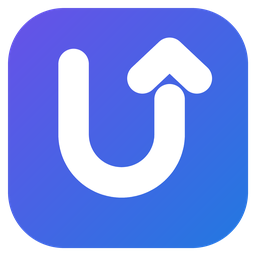
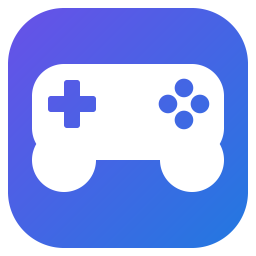
插件图标改为游戏手柄：SVG 源、16/32/128/256 PNG 与 WPF BrandMark 同一几何
靛蓝→蓝渐变圆角方块上的白色手柄（两侧握把、左十字键、右四个功能键镂空），16 px 网格像素对齐，
16 px 时功能键为整像素方块。新增 scripts/render_brand_icons.py（Pillow 超采样）统一生成 SVG 和全部 PNG；
VSIX Icon / PreviewImage、VSCT bmpLogo（工具栏按钮、设置…菜单）、设置窗口等标题栏的引用路径不变。

Claude-Session: https://claude.ai/code/session_01DYSWJkvDiLWddLiPe3DpUj

Changed region(s): [[0.125, 0.125, 0.875, 0.7812]]

diff --git a/scripts/render_brand_icons.py b/scripts/render_brand_icons.py
@@ -1,0 +1,125 @@
+#!/usr/bin/env python3
+"""Renders the UEToVS brand mark (game controller on the indigo-to-blue tile).
+
+Writes src/UEToVS.Host/Resources/UEToVS.svg (source) and the PNGs used by the VSIX / VSCT:
+UEToVS16.png, UEToVS32.png, Icon.png (128), PreviewImage.png (256). Only needs Pillow (supersampled rendering);
+the geometry below is the single source of truth and is mirrored in src/UEToVS.UI/Atoms/BrandMark.cs.
+
+Geometry (16-unit grid, pixel-aligned so the 16 px icon is crisp):
+  tile    rounded square 0.5..15.5, radius 3.5, gradient #6B4FE8 -> #1F7AE0 (top-left -> bottom-right)
+  body    rounded rect x 2..14, y 4..10, radius 2, plus two grips x 2..6 / 10..14, y 8..12, radius 2 (white)
+  d-pad   cut-out plus: x 3..6 * y 6..7 and x 4..5 * y 5..8
+  buttons four cut-out face buttons around (11.5, 6.5): squares at 16 px, round dots from 32 px up
+
+Usage: python3 scripts/render_brand_icons.py
+"""
+import os
+import sys
+
+from PIL import Image, ImageDraw
+
+ROOT = os.path.dirname(os.path.dirname(os.path.abspath(__file__)))
+OUT = os.path.join(ROOT, "src", "UEToVS.Host", "Resources")
+
+TILE = (0.5, 0.5, 15.5, 15.5)
+TILE_R = 3.5
+C0 = (0x6B, 0x4F, 0xE8)
+C1 = (0x1F, 0x7A, 0xE0)
+BODY = [((2, 4, 14, 10), 2.0), ((2, 8, 6, 12), 2.0), ((10, 8, 14, 12), 2.0)]
+DPAD = [(3, 6, 6, 7), (4, 5, 5, 8)]
+BUTTON_CENTERS = [(11.5, 5.5), (10.5, 6.5), (12.5, 6.5), (11.5, 7.5)]
+BUTTON_R = 0.58
+
+SS = 16  # supersampling factor per output pixel
+
+
+def gradient(size):
+    """Diagonal gradient C0 (top-left) -> C1 (bottom-right)."""
+    if size > 512:
+        return gradient(512).resize((size, size), Image.BILINEAR)
+    img = Image.new("RGB", (size, size))
+    px = img.load()
+    for y in range(size):
+        for x in range(size):
+            t = (x + y) / (2.0 * (size - 1)) if size > 1 else 0
+            px[x, y] = tuple(round(C0[i] + (C1[i] - C0[i]) * t) for i in range(3))
+    return img
+
+
+def render(size, square_buttons):
+    big = size * SS
+    k = big / 16.0
+
+    def box(r):
+        return [r[0] * k, r[1] * k, r[2] * k - 1, r[3] * k - 1]
+
+    tile_mask = Image.new("L", (big, big), 0)
+    ImageDraw.Draw(tile_mask).rounded_rectangle(box(TILE), radius=TILE_R * k, fill=255)
+
+    glyph = Image.new("L", (big, big), 0)
+    g = ImageDraw.Draw(glyph)
+    for rect, radius in BODY:
+        g.rounded_rectangle(box(rect), radius=radius * k, fill=255)
+    for rect in DPAD:
+        g.rounded_rectangle(box(rect), radius=0 if square_buttons else 0.18 * k, fill=0)
+    for cx, cy in BUTTON_CENTERS:
+        if square_buttons:
+            g.rectangle(box((cx - 0.5, cy - 0.5, cx + 0.5, cy + 0.5)), fill=0)
+        else:
+            g.ellipse([(cx - BUTTON_R) * k, (cy - BUTTON_R) * k, (cx + BUTTON_R) * k - 1, (cy + BUTTON_R) * k - 1], fill=0)
+
+    tile = Image.new("RGBA", (big, big), (0, 0, 0, 0))
+    tile.paste(gradient(big), (0, 0), tile_mask)
+    white = Image.new("RGBA", (big, big), (255, 255, 255, 255))
+    tile.paste(white, (0, 0), glyph)
+    # keep the tile's own alpha (the glyph never leaves the tile)
+    r, gch, b, _ = tile.split()
+    tile = Image.merge("RGBA", (r, gch, b, tile_mask))
+    return tile.resize((size, size), Image.BOX)  # area average: exact for the pixel-aligned shapes
+
+
+def svg():
+    def rr(rect, radius, fill):
+        x0, y0, x1, y1 = rect
+        return f'    <rect x="{x0}" y="{y0}" width="{x1 - x0}" height="{y1 - y0}" rx="{radius}" fill="{fill}"/>'
+
+    body = "\n".join(rr(r, rad, "#FFFFFF") for r, rad in BODY)
+    holes = "\n".join(rr(r, 0.18, "#000000") for r in DPAD)
+    dots = "\n".join(f'    <circle cx="{cx}" cy="{cy}" r="{BUTTON_R}" fill="#000000"/>' for cx, cy in BUTTON_CENTERS)
+    return f"""<?xml version="1.0" encoding="UTF-8"?>
+<!--
+  UEToVS brand mark: a game controller (rounded body with grips, d-pad on the left, four face buttons on the right)
+  on the indigo-to-blue rounded tile. Source of Resources/UEToVS16.png, UEToVS32.png, Icon.png (128) and
+  PreviewImage.png (256), all rendered by scripts/render_brand_icons.py (the geometry lives there and in
+  src/UEToVS.UI/Atoms/BrandMark.cs). 16-unit grid, pixel-aligned so the 16 px icon stays crisp.
+-->
+<svg xmlns="http://www.w3.org/2000/svg" width="256" height="256" viewBox="0 0 16 16">
+  <defs>
+    <linearGradient id="g" x1="0" y1="0" x2="1" y2="1">
+      <stop offset="0" stop-color="#6B4FE8"/>
+      <stop offset="1" stop-color="#1F7AE0"/>
+    </linearGradient>
+    <mask id="pad" maskUnits="userSpaceOnUse" x="0" y="0" width="16" height="16">
+{body}
+{holes}
+{dots}
+    </mask>
+  </defs>
+  <rect x="0.5" y="0.5" width="15" height="15" rx="3.5" ry="3.5" fill="url(#g)"/>
+  <rect x="0" y="0" width="16" height="16" fill="#FFFFFF" mask="url(#pad)"/>
+</svg>
+"""
+
+
+def main():
+    os.makedirs(OUT, exist_ok=True)
+    with open(os.path.join(OUT, "UEToVS.svg"), "w", encoding="utf-8", newline="\n") as f:
+        f.write(svg())
+    for name, size in [("UEToVS16.png", 16), ("UEToVS32.png", 32), ("Icon.png", 128), ("PreviewImage.png", 256)]:
+        render(size, square_buttons=size <= 20).save(os.path.join(OUT, name), optimize=True)
+        print("wrote", name, size)
+    return 0
+
+
+if __name__ == "__main__":
+    sys.exit(main())

diff --git a/src/UEToVS.UI/Atoms/BrandMark.cs b/src/UEToVS.UI/Atoms/BrandMark.cs
@@ -4,18 +4,19 @@ using System.Windows.Media;
 namespace UEToVS.UI.Atoms
 {
     /// <summary>
-    /// The UEToVS brand mark, drawn as vectors (crisp at any DPI): a rounded indigo→blue tile with a white "U"
-    /// whose right stem ends in a forward chevron ("Unreal → Visual Studio"). Same geometry as
-    /// src/UEToVS.Host/Resources/UEToVS.svg (16-unit grid). The brand colors are deliberately fixed (not theme
-    /// tokens): the tile carries its own contrast, so it reads on light, dark and blue themes alike.
+    /// The UEToVS brand mark, drawn as vectors (crisp at any DPI): a rounded indigo→blue tile with a white game
+    /// controller (rounded body with two grips, d-pad on the left, four face buttons on the right). Same geometry as
+    /// src/UEToVS.Host/Resources/UEToVS.svg and scripts/render_brand_icons.py (16-unit grid, pixel-aligned so the
+    /// 16 px mark is crisp; at 16-20 px the face buttons are drawn as whole-pixel squares, larger as round dots).
+    /// The brand colors are deliberately fixed (not theme tokens): the tile carries its own contrast, so it reads on
+    /// light, dark and blue themes alike.
     /// </summary>
     public sealed class BrandMark : FrameworkElement
     {
         private static readonly Brush Tile = Freeze(new LinearGradientBrush(Color.FromRgb(0x6B, 0x4F, 0xE8), Color.FromRgb(0x1F, 0x7A, 0xE0), new Point(0, 0), new Point(1, 1)));
         private static readonly Brush Edge = Freeze(new SolidColorBrush(Color.FromArgb(0x55, 0x10, 0x14, 0x40)));
-        private static readonly Pen Glyph = FreezePen(new Pen(Brushes.White, 1.9) { StartLineCap = PenLineCap.Round, EndLineCap = PenLineCap.Round, LineJoin = PenLineJoin.Round });
-        private static readonly Geometry U = FreezeGeo(Geometry.Parse("M 4.6,4 L 4.6,8.4 A 3,3 0 0 0 10.6,8.4 L 10.6,6.2"));
-        private static readonly Geometry Chevron = FreezeGeo(Geometry.Parse("M 8.9,4.9 L 10.6,3.3 L 12.3,4.9"));
+        private static readonly Geometry PadSmall = BuildPad(true);
+        private static readonly Geometry PadLarge = BuildPad(false);
 
         public BrandMark(double size = 16)
         {
@@ -27,17 +28,37 @@ namespace UEToVS.UI.Atoms
 
         protected override void OnRender(DrawingContext dc)
         {
-            double s = System.Math.Min(ActualWidth, ActualHeight) / 16.0;
+            double size = System.Math.Min(ActualWidth, ActualHeight);
+            double s = size / 16.0;
             if (s <= 0) return;
             dc.PushTransform(new ScaleTransform(s, s));
             dc.DrawRoundedRectangle(Tile, new Pen(Edge, 1 / s), new Rect(0.5, 0.5, 15, 15), 3.5, 3.5);
-            dc.DrawGeometry(null, Glyph, U);
-            dc.DrawGeometry(null, Glyph, Chevron);
+            dc.DrawGeometry(Brushes.White, null, size <= 20 ? PadSmall : PadLarge);
             dc.Pop();
         }
 
+        /// <summary>Controller silhouette minus the d-pad and the face buttons.</summary>
+        private static Geometry BuildPad(bool squareButtons)
+        {
+            var body = new GeometryGroup { FillRule = FillRule.Nonzero };
+            body.Children.Add(new RectangleGeometry(new Rect(2, 4, 12, 6), 2, 2));
+            body.Children.Add(new RectangleGeometry(new Rect(2, 8, 4, 4), 2, 2));
+            body.Children.Add(new RectangleGeometry(new Rect(10, 8, 4, 4), 2, 2));
+
+            var holes = new GeometryGroup { FillRule = FillRule.Nonzero };
+            double dr = squareButtons ? 0 : 0.18;
+            holes.Children.Add(new RectangleGeometry(new Rect(3, 6, 3, 1), dr, dr));
+            holes.Children.Add(new RectangleGeometry(new Rect(4, 5, 1, 3), dr, dr));
+            foreach (var c in new[] { new Point(11.5, 5.5), new Point(10.5, 6.5), new Point(12.5, 6.5), new Point(11.5, 7.5) })
+            {
+                if (squareButtons) holes.Children.Add(new RectangleGeometry(new Rect(c.X - 0.5, c.Y - 0.5, 1, 1)));
+                else holes.Children.Add(new EllipseGeometry(c, 0.58, 0.58));
+            }
+            var pad = Geometry.Combine(body, holes, GeometryCombineMode.Exclude, null);
+            pad.Freeze();
+            return pad;
+        }
+
         private static Brush Freeze(Brush b) { b.Freeze(); return b; }
-        private static Pen FreezePen(Pen p) { p.Freeze(); return p; }
-        private static Geometry FreezeGeo(Geometry g) { g.Freeze(); return g; }
     }
 }

diff --git a/src/UEToVS.Host/Resources/README.md b/src/UEToVS.Host/Resources/README.md
@@ -8,7 +8,14 @@
 | `Icon.png` | 128×128 | VSIX `Icon` |
 | `PreviewImage.png` | 256×256 | VSIX `PreviewImage` |
 
-图形：靛蓝→蓝色渐变（`#6B4FE8` → `#1F7AE0`）圆角方块，白色 “U” 的右侧竖笔以向上的箭头收尾（“跳转”）。
+图形（v0.3.1 起）：靛蓝→蓝色渐变（`#6B4FE8` → `#1F7AE0`）圆角方块上的白色游戏手柄——圆角机身带两个握把，
+左侧十字键、右侧四个功能键（都是镂空）。几何按 16 px 网格对齐像素，16×16 时边缘清晰；16–20 px 时功能键画成整像素方块，
+32 px 起画成圆点。
+
 WPF 中的同款图形是 `src/UEToVS.UI/Atoms/BrandMark.cs`（设置窗口、性能面板、组件画廊的标题栏），改图形时两处一起改。
 
-PNG 由 SVG 的同一几何用 Pillow 超采样渲染导出（无需 Inkscape）；也可以用任意 SVG 工具按上表尺寸导出。
+SVG 和全部 PNG 由 `scripts/render_brand_icons.py` 生成（只需要 Pillow，超采样后按面积平均缩小）：
+
+```
+python3 scripts/render_brand_icons.py
+```
